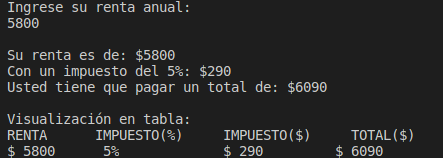
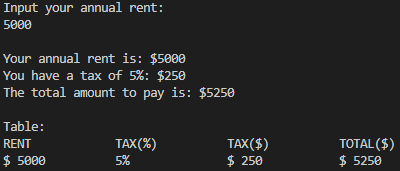
Quick fix in languages from SS

diff --git a/U2 Control Structures and Cycles/01_Renta.cpp b/U2 Control Structures and Cycles/01_Renta.cpp
@@ -3,7 +3,7 @@ Date: 22/09/2022
 Author: Vinc3nt (Figured its better than using an ID)
 Email: UP210878@alumnos.upa.edu.mx
 Description: Rent discounts.
-Last Modification: 28/09/2022
+Last Modification: 16/10/2022
 */
 
 //------------ PREPROCESSOR DIRECTIVES ----------------
@@ -59,9 +59,9 @@ int main(){
         //Print out everything
         cout << endl << "Your annual rent is: $" << Renta << endl;//Rent value inputted
         cout << "You have a tax of " << (Impuesto/Renta)*100 << "%: $" << Impuesto << endl; //Print out tax percentage followed by money value
-        cout << "The total amount to pay is: $" << Renta + Impuesto << endl << "\nVisualización en tabla:\n"; //Table visualization (Alternative view)
-        cout << "RENT      TAX(%)     TAX($)     TOTAL($)"<< endl;
-        cout << "$ " << Renta << "      " << (Impuesto/Renta)*100 << "%             $ " << Impuesto << "         $ " << Renta + Impuesto << endl;
+        cout << "The total amount to pay is: $" << Renta + Impuesto << endl << "\nTable:\n"; //Table visualization (Alternative view)
+        cout << "RENT\t\tTAX(%)\t\tTAX($)\t\tTOTAL($)"<< endl;
+        cout << "$ " << Renta << "\t\t" << (Impuesto/Renta)*100 << "%\t\t$ " << Impuesto << "\t\t$ " << Renta + Impuesto << endl;
     }
     else 
     {

diff --git a/U2 Control Structures and Cycles/02_Beneficios.cpp b/U2 Control Structures and Cycles/02_Beneficios.cpp
@@ -3,7 +3,7 @@ Date: 26/09/2022
 Author: Vinc3nt
 Email: UP210878@alumnos.upa.edu.mx
 Description: Bonus to employees.
-Last Modification: 28/09/2022
+Last Modification: 16/10/2022
 */
 
 //------------ PREPROCESSOR DIRECTIVES ----------------
@@ -46,7 +46,7 @@ int main(){
         else if (calificacion >= 0.6){
             cout << "A Meritorous employee.";
         }
-        cout << "\nWith an evaluation of " << calificacion << " , the employee will receive " << (calificacion*100) << "%: $" << (bono*calificacion) << "\n";//Print out percentage and value of the bonus
+        cout << "\nWith a rating of " << calificacion << " , the employee will receive " << (calificacion*100) << "%: $" << (bono*calificacion) << "\n";//Print out percentage and value of the bonus
     } 
     else {
         cout << "\nThe value you inputted is invalid, try again.\n";//In case the number is invalid
